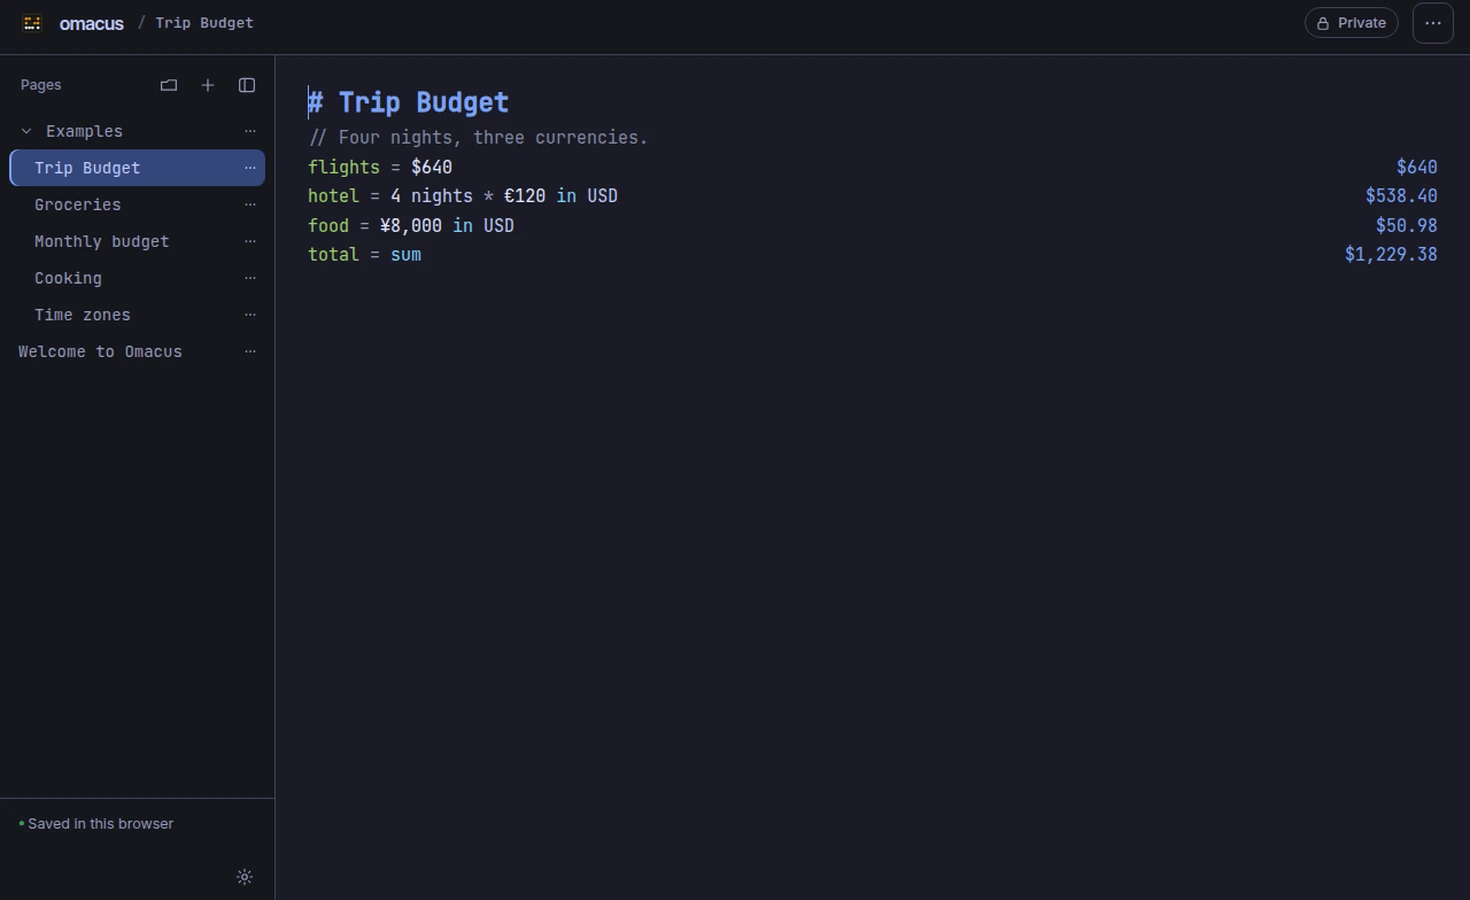
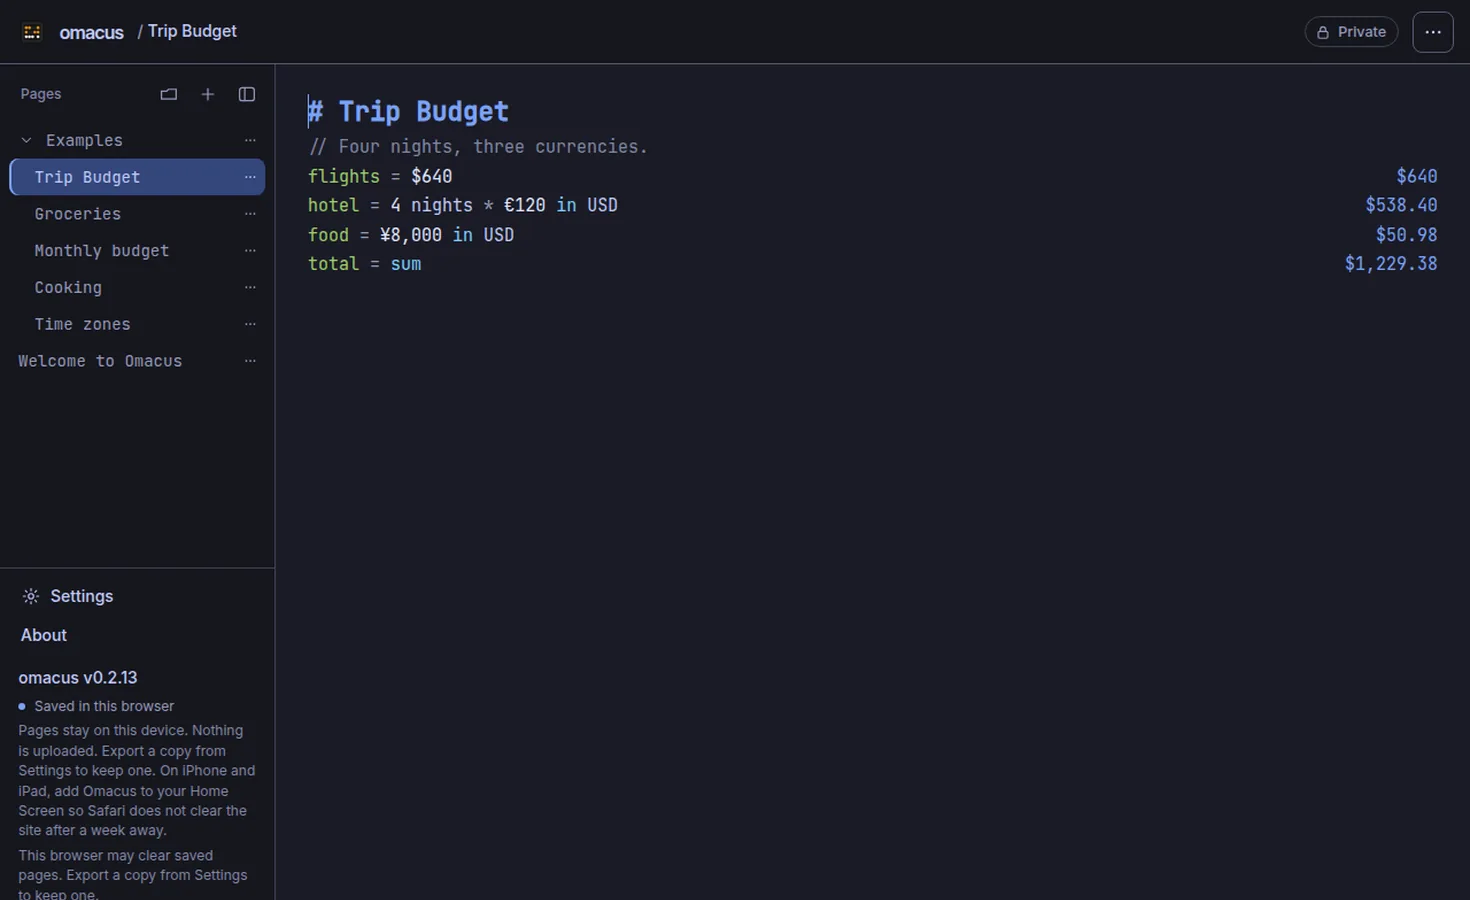
Document the phone chrome and retake the example shots
The page menu, sidebar footer, and phone drawer match v0.2.13. Homepage
screenshots are from that build, and the coming-soon band uses the shared
12px paragraph gap. The narration comment names eleven_v4.

diff --git a/site/docs/index.html b/site/docs/index.html
@@ -460,13 +460,13 @@ total</pre>
       <li><strong>Deleting is safe.</strong> Deleted pages move to Recently deleted (a <code>trash</code> folder next to your pages). Click one to read it; Restore puts it back, and Delete forever removes it.</li>
       <li><strong>Plain text.</strong> Each page is a <code>.txt</code> file, so you can search it or back it up with anything.</li>
     </ul>
-    <p>The <strong>⋯</strong> above a page, the <strong>⋯</strong> on its row in the sidebar, and a right-click on that row all open the same menu: Share link, Copy with answers, Copy as Markdown table, Preview, Handle…, New page, Move up, Move down, Move to folder…, Lock… (or Unlock…, Change password…, and Remove lock…), Lock now, Delete page, and Settings.</p>
+    <p>The <strong>⋯</strong> above a page, the <strong>⋯</strong> on its row in the sidebar, and a right-click on that row all open the same menu: Rename, Share link, Copy / Export (Copy with answers, Copy as Markdown table, Preview), Handle…, Move up, Move down, Move to folder…, the lock actions, and Delete page. The sidebar footer shows the logo, the version, Settings, and help.</p>
     <p>The first time Omacus opens, and only when you have no pages yet, it adds the welcome page and an Examples folder: Trip Budget, Groceries, Monthly budget, Cooking, and Time zones. Monthly budget reads <code>@groceries.total</code> and <code>@trip.total</code>. Deleting those pages does not bring them back. A library that already has pages is left as it is.</p>
 
     <h2 id="folders">Folders, locks &amp; handles</h2>
     <ul>
       <li><strong>Folders.</strong> Pages can sit in folders, two levels deep. Drag a page onto a folder, or choose Move to folder… . A folder's menu adds a page, adds a nested folder, renames the folder, or deletes it. New folder is also in the sidebar.</li>
-      <li><strong>A password lock.</strong> Lock… on a page or a folder seals the file with Argon2id and XChaCha20-Poly1305. A forgotten password cannot be recovered. Unlock… opens it for this session. Change password… and Remove lock… need the current password. Lock now seals every open page and folder. Settings chooses how soon an unlocked page locks again: 1, 5, 15, 30, or 60 minutes, or Never. Quitting locks them too. The command line and MCP skip a locked page unless you pass its password.</li>
+      <li><strong>A password lock.</strong> Lock… on a page or a folder asks you to choose a password, then locks it. Save that password in a password manager. The file is sealed with Argon2id and XChaCha20-Poly1305. A forgotten password cannot be recovered. Unlock… opens it for this session. Change password… and Remove lock… need the current password, and removing a lock keeps the page. Lock now seals every open page and folder. Settings chooses how soon an unlocked page locks again: 1, 5, 15, 30, or 60 minutes, or Never. Quitting locks them too. The command line and MCP skip a locked page unless you pass its password.</li>
       <li><strong>Handles.</strong> Each page has a short name taken from its title, so Trip Budget is <code>trip</code>. Handle… changes it. Another page reads a value with <code>@handle.variable</code>. <code>@trip.total</code> is the last assignment of <code>total</code> on that page. Typing <code>@</code> lists pages. F2 renames a variable on this page and in <code>@handle.name</code> on the others.</li>
     </ul>
     <p>End-to-end encrypted sync, with named vaults and a recovery phrase, is described at <a href="/sync/">Sync</a>. It is not in this version. Pages stay on this device.</p>
@@ -486,8 +486,8 @@ total</pre>
       <li>From a terminal: <code>omacus open 'https://app.omacus.com#v1.…'</code>.</li>
     </ul>
     <h3 id="web-app">The web app</h3>
-    <p><a href="https://app.omacus.com" target="_blank" rel="noopener">app.omacus.com</a> is Omacus in any modern browser, on a computer or a phone, with nothing to install. Pages you make there are saved in that browser on that device, and are never uploaded. The same first-run Examples folder, folders, locks, and <code>@handle.variable</code> references are there. Export them from the ⋯ menu as a <code>.zip</code> of <code>.txt</code> files, the same format as the desktop app's pages folder, and import them anywhere.</p>
-    <p>The browser keeps a smaller set of shortcuts: <kbd>Ctrl B</kbd>, <kbd>Ctrl J</kbd>, <kbd>Alt ↑</kbd> / <kbd>Alt ↓</kbd>, <kbd>Ctrl Shift L</kbd>, <kbd>Ctrl ,</kbd>, <kbd>Ctrl \</kbd>, <kbd>Ctrl P</kbd>, and <kbd>F2</kbd>. New page, Move to folder…, and Lock… are in the ⋯ menu. The web app's themes are Auto, Light, Dark, Paper, and Dusk.</p>
+    <p><a href="https://app.omacus.com" target="_blank" rel="noopener">app.omacus.com</a> is Omacus in any modern browser, on a computer or a phone, with nothing to install. Pages you make there are saved in that browser on that device, and are never uploaded. The same first-run Examples folder, folders, locks, and <code>@handle.variable</code> references are there. Export all pages from Settings as a <code>.zip</code> of <code>.txt</code> files, the same format as the desktop app's pages folder, and import them anywhere.</p>
+    <p>On a phone the top bar is a solid strip with the page name. Pages opens as a drawer, with Settings and the version at the bottom. The browser keeps a smaller set of shortcuts: <kbd>Ctrl B</kbd>, <kbd>Ctrl J</kbd>, <kbd>Alt ↑</kbd> / <kbd>Alt ↓</kbd>, <kbd>Ctrl Shift L</kbd>, <kbd>Ctrl ,</kbd>, <kbd>Ctrl \</kbd>, <kbd>Ctrl P</kbd>, and <kbd>F2</kbd>. Move to folder… and Lock… are in the ⋯ menu. New page is the + in the pages list. The web app's themes are Auto, Light, Dark, Paper, and Dusk.</p>
     <p>Chrome, Edge and Android can install it as an app (⋯ → <em>Install as an app</em>), and it works offline once opened. Cached exchange rates keep currency math working, and the page says when rates may be stale. On iPhone and iPad, choose Share → <em>Add to Home Screen</em>: Safari otherwise clears a site's data after seven days without a visit.</p>
 
     <h2 id="shortcuts">Keyboard shortcuts</h2>
@@ -524,7 +524,7 @@ total</pre>
     <p>After two letters, Omacus suggests your page's variables, then keywords, time zones and units. Each row shows the kind and a short description. <kbd>Tab</kbd> accepts, <kbd>↑</kbd> <kbd>↓</kbd> choose, <kbd>Esc</kbd> dismisses. <kbd>Enter</kbd> starts a new line and does not accept a suggestion, so <code>3 km in</code> followed by Enter can't turn into <code>inch</code>. <kbd>Ctrl Space</kbd> opens the suggestions on purpose, and then <kbd>Enter</kbd> accepts the chosen one. Short connecting words like <code>in</code>, <code>to</code> and <code>of</code> never trigger suggestions.</p>
 
     <h2 id="themes">Themes</h2>
-    <p>Settings is a tab in the same window as About. <kbd>Ctrl ,</kbd>, the gear at the bottom of the sidebar (and of the collapsed strip), or Settings in a page's ⋯ menu opens that tab. Typing <code>settings</code> in the page switcher (<kbd>Ctrl J</kbd>) opens it too. It chooses the theme, whether answers sit in a column, the PDF export folder, and whether Omacus checks for updates. The same choices are saved in <code>settings.toml</code> (see <a href="#files">where files live</a>). <kbd>Ctrl \</kbd> hides the answers column, so each answer sits after its line. The logo opens the About tab of that window.</p>
+    <p>Settings is a tab in the same window as About. <kbd>Ctrl ,</kbd> or the gear in the sidebar footer (and on the collapsed strip) opens that tab. Typing <code>settings</code> in the page switcher (<kbd>Ctrl J</kbd>) opens it too. The footer also shows the version; a dot there means a newer one is out. It chooses the theme, whether answers sit in a column, the PDF export folder, and whether Omacus checks for updates. The same choices are saved in <code>settings.toml</code> (see <a href="#files">where files live</a>). <kbd>Ctrl \</kbd> hides the answers column, so each answer sits after its line. The logo in the footer opens the About tab of that window.</p>
     <p><strong>Auto</strong> picks colors in this order:</p>
     <ol>
       <li>Your own <code>theme.toml</code>, if you've made one.</li>

diff --git a/site/css/site.css b/site/css/site.css
@@ -2041,7 +2041,7 @@ kbd {
 .prose pre,
 .prose .annot,
 .prose table,
-.privacy .soon p {
+.soon p {
   margin: 0 0 var(--prose-gap);
 }
 

diff --git a/README.md b/README.md
@@ -67,7 +67,7 @@ adds the notepad conventions on top.
 | `Ctrl+\` | Hide the answers column |
 | `Ctrl+P` | Preview the page (print and export PDF from there) |
 
-The ⋯ above a page (or on its row in the sidebar, or a right-click) opens Share link, Copy with answers, Copy as Markdown table, Preview, Handle…, New page, Move up, Move down, Move to folder…, Lock… (or Unlock…, Change password…, and Remove lock…), Lock now, Delete page, and Settings. The gear at the bottom of the sidebar (and of the collapsed strip) opens Settings too, and so does typing `settings` in the page switcher (`Ctrl+J`). Settings lives in the same window as About, Keyboard, Syntax and Tips. It chooses the theme, the answers column, how soon a lock returns, the PDF export folder, and update checks. Export PDF writes `Page title.pdf` into Downloads, or a folder chosen there. If that file is already there, Omacus asks before replacing it. A page's title is its first line.
+The ⋯ above a page (or on its row in the sidebar, or a right-click) opens Rename, Share link, Copy / Export (Copy with answers, Copy as Markdown table, Preview), Handle…, Move up, Move down, Move to folder…, the lock actions, and Delete page. The sidebar footer shows the logo, the version, Settings, and help. The gear there, and on the collapsed strip, opens Settings, and so does typing `settings` in the page switcher (`Ctrl+J`). Settings lives in the same window as About, Keyboard, Syntax and Tips. It chooses the theme, the answers column, how soon a lock returns, the PDF export folder, and update checks. Export PDF writes `Page title.pdf` into Downloads, or a folder chosen there. If that file is already there, Omacus asks before replacing it. A page's title is its first line.
 Pages are plain text in `~/.local/share/omacus/pages/`; order, cursors, handles, folders, and whether the
 sidebar is expanded (and how wide) are in `~/.local/share/omacus/state.json`.
 A folder named `sheets` from an older version is renamed to `pages` the first time this version opens.
@@ -77,7 +77,7 @@ The first time Omacus opens, and only when there are no pages yet, it adds a wel
 
 Pages can sit in folders, two levels deep. Drag a page onto a folder, or choose Move to folder… . A folder's own menu adds a page, adds a nested folder, renames it, or deletes it.
 
-**Lock…** on a page or a folder asks for a password. The file on disk is sealed with Argon2id and XChaCha20-Poly1305. A forgotten password cannot be recovered. Unlock… opens it for this session. Change password… and Remove lock… need the current password. Lock now seals every open page and folder. Settings chooses how soon an unlocked page locks again: 1, 5, 15, 30, or 60 minutes, or Never. Quitting locks them too.
+**Lock…** on a page or a folder asks you to choose a password, then locks it. Save that password in a password manager. The file on disk is sealed with Argon2id and XChaCha20-Poly1305. A forgotten password cannot be recovered. Unlock… opens it for this session. Change password… and Remove lock… need the current password, and removing a lock keeps the page. Lock now seals every open page and folder. Settings chooses how soon an unlocked page locks again: 1, 5, 15, 30, or 60 minutes, or Never. Quitting locks them too.
 
 Each page has a short handle, taken from its title (Trip Budget is `trip`). **Handle…** changes it. Another page reads a value with `@handle.variable`, so `@trip.total` is the last assignment of `total` on that page. Typing `@` lists pages. Renaming a variable with F2 updates `@handle.name` on the other pages too.
 
@@ -95,8 +95,8 @@ registered by the installer, the macOS app, and Windows on first run), by pastin
 page, or with `omacus open '<link>'`. It opens as a new page, or switches to it if you have it.
 
 The web app runs the same engine (`engine/`, compiled to WebAssembly from `web/`). Its pages are
-saved in that browser; export and import them as a `.zip` of `.txt` files. It installs as an app
-and works offline. Exchange rates stay cached for 12 hours; if a refresh does not succeed, the
+saved in that browser; export and import them as a `.zip` of `.txt` files from Settings. It installs as an app
+and works offline. On a phone the top bar is a solid strip with the page name, and the pages list opens as a drawer with Settings and the version at the bottom. Exchange rates stay cached for 12 hours; if a refresh does not succeed, the
 page says rates may be stale.
 
 ### Autocomplete
